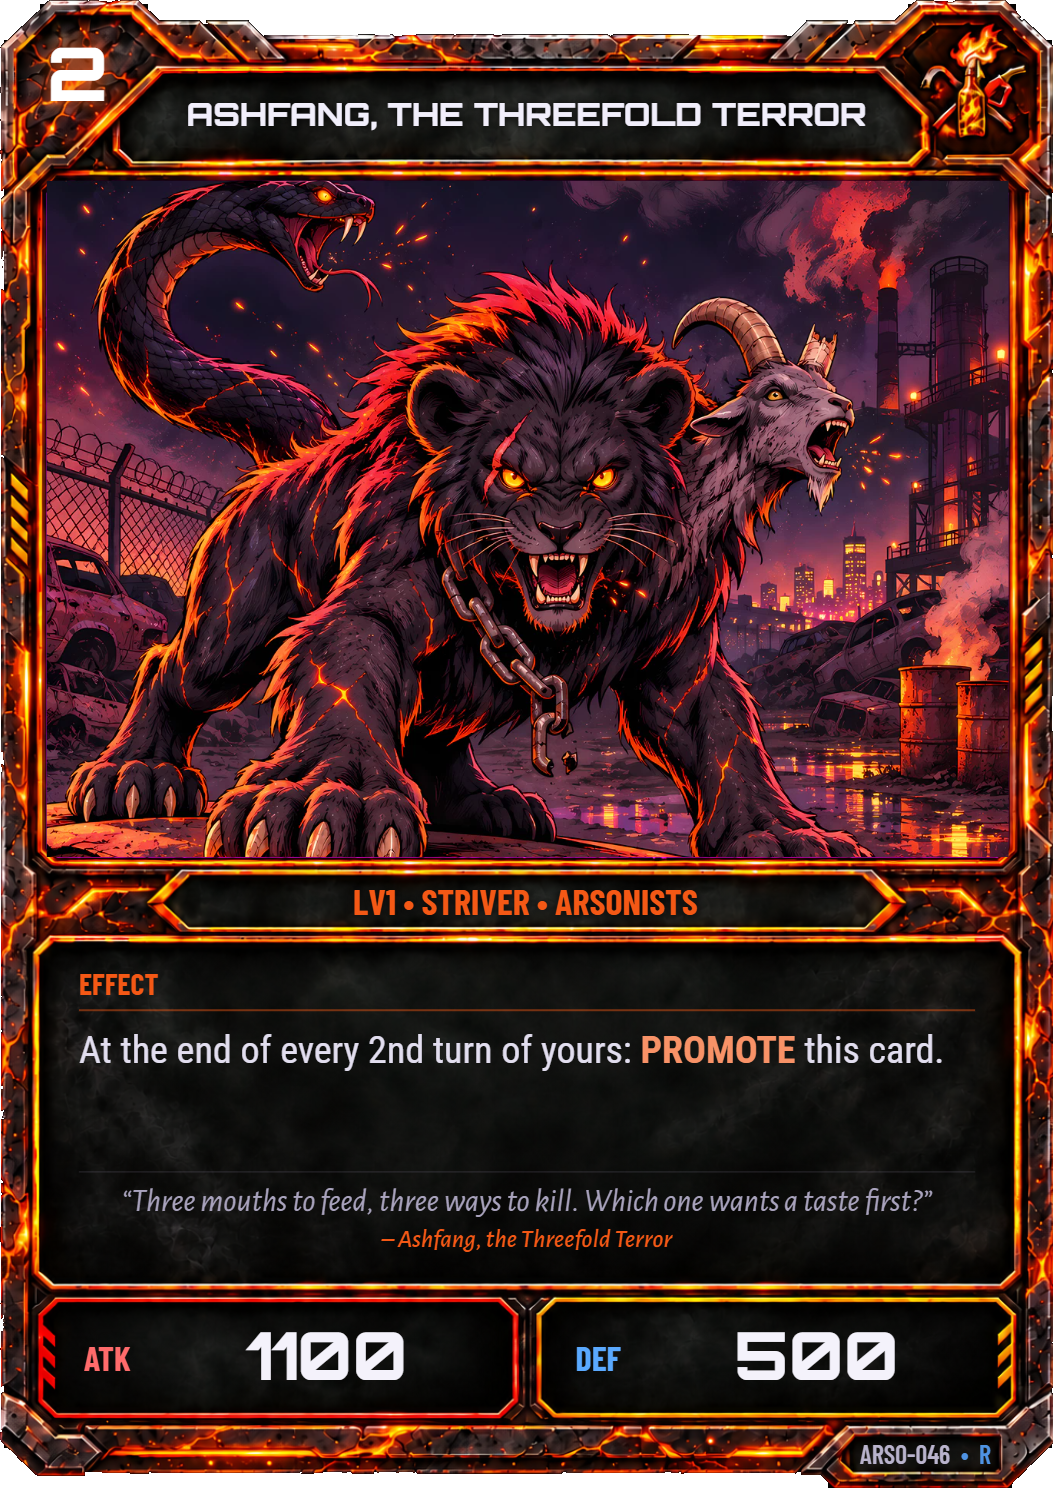
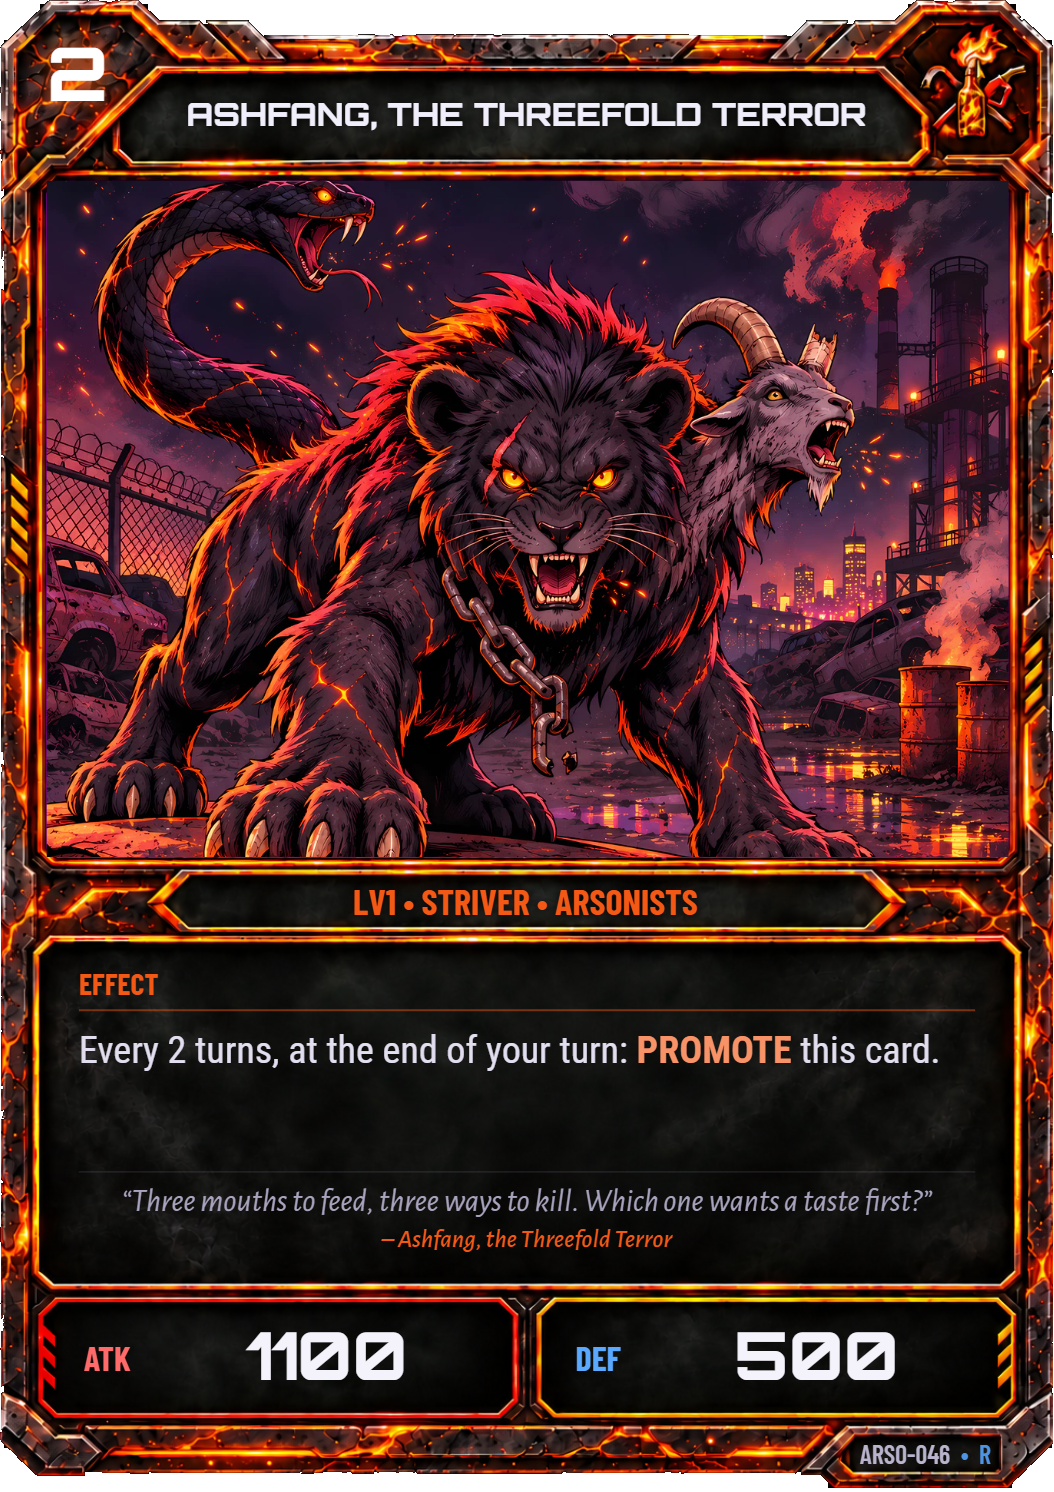
Ashfang LV1 (ARSO-046) and Wickwick (ARSO-055): pictures and text with the corrected wording
From the Forge export of Nov 22. The export's nine Ambush cards are left out: a Forge bug dropped their
clan from the text ("one of your characters" for a clan-only Ambush), fixed in both Forges.

Changed region(s): [[0.0607, 0.6783, 0.8805, 0.7091]]

diff --git a/shared/cards_forge.js b/shared/cards_forge.js
@@ -14339,7 +14339,7 @@ export const FORGE_CARDS = {
         "art_url": "card_arso_046",
         "code": "ARSO-046",
         "flavourText": "Three mouths to feed, three ways to kill. Which one wants a taste first?",
-        "effectText": "At the end of every 2nd turn of yours: PROMOTE this card.",
+        "effectText": "Every 2 turns, at the end of your turn: PROMOTE this card.",
         "effects": [
             {
                 "when": "turn_end",
@@ -14646,7 +14646,7 @@ export const FORGE_CARDS = {
         "art_url": "card_arso_055",
         "code": "ARSO-055",
         "flavourText": "Come closer, little flame. I've been dying to meet you.",
-        "effectText": "While an enemy character is BURNING, this card can NEGATE an enemy character's effect once a turn (it doesn't happen).\nOnce per turn, when this card is Downed: Switch the character that Downed it to DEF position.",
+        "effectText": "While an enemy character is BURNING, this card can NEGATE an enemy character's effect once a turn.\nOnce per turn, when this card is Downed: Switch the character that Downed it to DEF position.",
         "effects": [
             {
                 "when": "passive",
